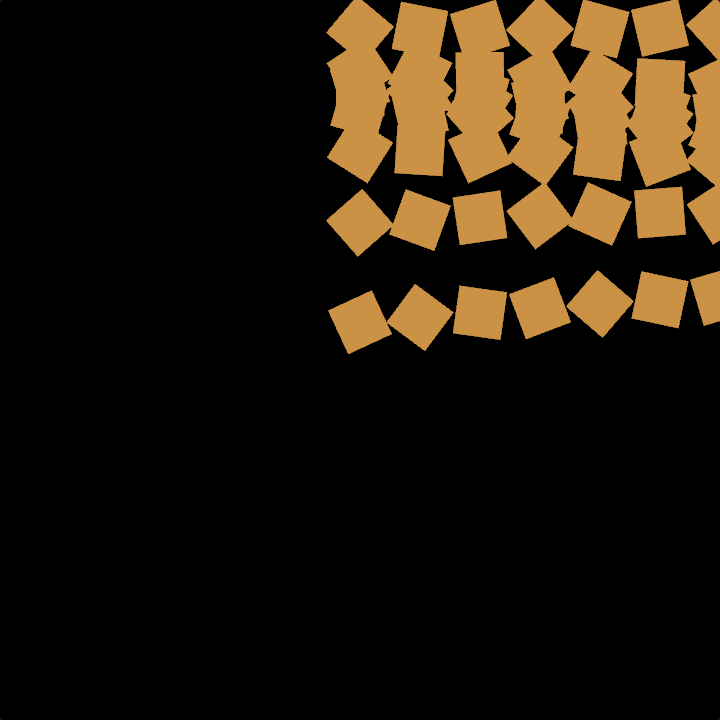
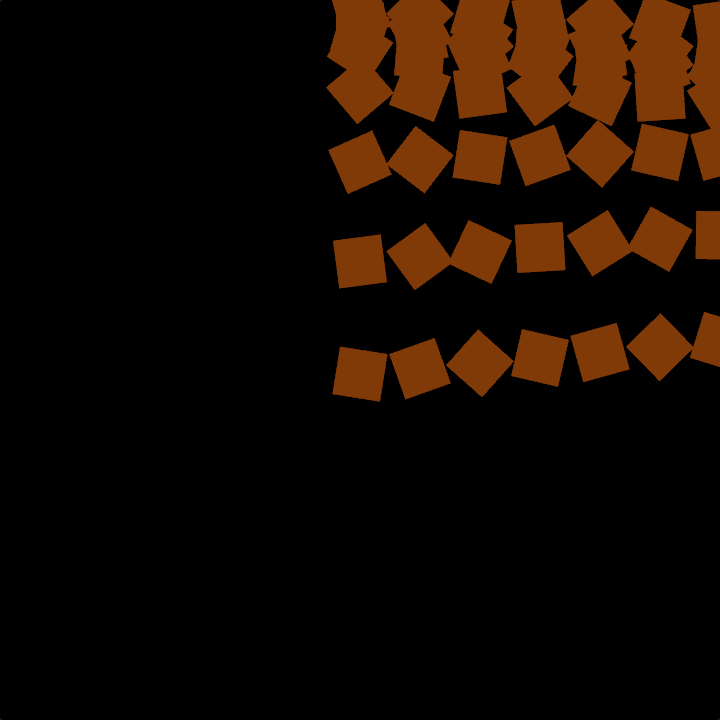
feat(pillars-scene nt56.20): OKLab color substrate for ScenePlan (#390)
Adopt OKLab as the internal color model behind the opaque color seam (B3
decision 1). nt56.5's opacity makes this non-breaking — the authored color's
representation migrates without touching any block API.

- ColorBinding gains an `oklab` variant (l/a/b Cartesian); kept exhaustive in
  every space switch (realizer colorBindingToNodes, inputs colorChannels,
  brightness scaleLuminance, capability-matrix coverage).
- hexColorBinding (the one authoring seam) now maps the opaque #rrggbb through
  sRGB → linear → OKLab, so authored colors enter perceptual space.
- scene-plan-realizer gains oklabToLinearSrgb (the render-side inverse: OKLab →
  linear sRGB, gamut-clamped; three encodes linear → display). Single source of
  truth for each direction; no block sees a matrix. [LAW:one-source-of-truth]
- Brightness on OKLab darkens along the ray toward black (scales l AND the a/b
  chroma axes together): a/b are absolute Cartesian chroma, so scaling l alone
  holds chroma fixed and over-saturates at lower lightness, pushing the color
  out of gamut and clipping its hue. Scaling all three preserves hue.

Why OKLab first: the perceptual color ops (Mix/Tint/HueShift/Gradient
interpolation, nt56.21/nt56.19) are only hue-correct in this space; building
them on rgb would be rework. [LAW:carrying-cost]

Verification:
- Full suite 2279 pass (capability-matrix now covers all four spaces);
  typecheck + lint clean.
- Visual gate: three-modifier-chain e2e green; captured frames show a faithful
[…]

Changed region(s): [[0.4583, 0.0, 1.0, 0.5806]]

diff --git a/src/render/scene-plan/__tests__/capability-matrix.test.ts b/src/render/scene-plan/__tests__/capability-matrix.test.ts
@@ -62,10 +62,11 @@ function buildCapabilityCoveragePlan(): ScenePlan {
   const rect = geometryRef('cap:rect');
   const point = geometryRef('cap:point');
 
-  // Materials: unlitColor over hsl / rgb / rgba, plus texturedUnlit.
+  // Materials: unlitColor over hsl / rgb / rgba / oklab, plus texturedUnlit.
   const matHsl = materialRef('cap:mat-hsl');
   const matRgb = materialRef('cap:mat-rgb');
   const matRgba = materialRef('cap:mat-rgba');
+  const matOklab = materialRef('cap:mat-oklab');
   const matTex = materialRef('cap:mat-tex');
 
   const tex = textureRef('cap:tex');
@@ -75,6 +76,7 @@ function buildCapabilityCoveragePlan(): ScenePlan {
   const objHsl = sceneObjectRef('cap:obj-hsl');
   const objRgb = sceneObjectRef('cap:obj-rgb');
   const objRgba = sceneObjectRef('cap:obj-rgba');
+  const objOklab = sceneObjectRef('cap:obj-oklab');
   const objTex = sceneObjectRef('cap:obj-tex');
 
   const index = intrinsic('index');
@@ -118,6 +120,10 @@ function buildCapabilityCoveragePlan(): ScenePlan {
           kind: 'unlitColor',
           color: { space: 'rgba', r: konst(1), g: konst(0), b: konst(0), a: konst(0.5) },
         },
+        [matOklab]: {
+          kind: 'unlitColor',
+          color: { space: 'oklab', l: add(konst(0.6), mul(rank, konst(0.1))), a: konst(0.1), b: konst(-0.05) },
+        },
         [matTex]: { kind: 'texturedUnlit', texture: tex },
       },
       textures: {
@@ -136,6 +142,7 @@ function buildCapabilityCoveragePlan(): ScenePlan {
       [objHsl]: { geometry: rect, material: matHsl, instancing: { count: 16, transform: transformA } },
       [objRgb]: { geometry: point, material: matRgb, instancing: { count: 4, transform: transformB } },
       [objRgba]: { geometry: rect, material: matRgba, instancing: { count: 1, transform: transformB } },
+      [objOklab]: { geometry: rect, material: matOklab, instancing: { count: 4, transform: transformB } },
       [objTex]: { geometry: rect, material: matTex, instancing: { count: 1, transform: transformB } },
     },
     render: {
@@ -145,6 +152,7 @@ function buildCapabilityCoveragePlan(): ScenePlan {
         { target: 'previewCanvas', object: objHsl },
         { target: 'previewCanvas', object: objRgb },
         { target: 'previewCanvas', object: objRgba },
+        { target: 'previewCanvas', object: objOklab },
         { target: 'previewCanvas', object: objTex },
       ],
       postChain: post,
@@ -200,6 +208,11 @@ function collectExprVocabulary(plan: ScenePlan): {
       visit(c.s);
       visit(c.l);
     }
+    if (c.space === 'oklab') {
+      visit(c.l);
+      visit(c.a);
+      visit(c.b);
+    }
   }
 
   return { kinds, unary, binary };
@@ -218,12 +231,12 @@ describe('ScenePlan capability matrix — representative coverage', () => {
     expect(kinds).toEqual(['point', 'rectangle']);
   });
 
-  it('covers all three color spaces', () => {
+  it('covers all four color spaces', () => {
     const spaces = Object.values(plan.resources.materials)
       .filter((m) => m.kind === 'unlitColor')
       .map((m) => (m.kind === 'unlitColor' ? m.color.space : null))
       .sort();
-    expect(spaces).toEqual(['hsl', 'rgb', 'rgba']);
+    expect(spaces).toEqual(['hsl', 'oklab', 'rgb', 'rgba']);
   });
 
   it('covers both material variants', () => {

diff --git a/src/pillars/scene/color.ts b/src/pillars/scene/color.ts
@@ -17,21 +17,38 @@ import { konst, type ColorBinding } from '../../render/scene-plan';
 
 const CHANNEL_MAX = 255;
 
+/** Decode one sRGB display channel (0..1) to linear light. */
+function srgbToLinear(c: number): number {
+  return c <= 0.04045 ? c / 12.92 : ((c + 0.055) / 1.055) ** 2.4;
+}
+
 /**
- * Parse an opaque `#rrggbb` color into a uniform (per-instance-constant) rgb
- * `ColorBinding`. Each channel is a baked `const` PlanExpr in 0..1 — a solid
+ * Parse an opaque `#rrggbb` color into a uniform (per-instance-constant) OKLab
+ * `ColorBinding`. The authored color enters the perceptual space here — the one
+ * seam — so every downstream color op composes in OKLab and the renderer maps
+ * it back to linear sRGB for display. Each channel is a baked `const`: a solid
  * color is the zero-variation case of the same binding an animated color uses.
  *
  * [LAW:dataflow-not-control-flow] Solidness is a property of the *values* (all
  *   `const`), not a separate kind of binding.
+ * [LAW:one-source-of-truth] The sRGB→OKLab transform lives only here on the
+ *   authoring side and `oklabToLinearSrgb` only on the render side; no block
+ *   sees either matrix.
  */
 export function hexColorBinding(hex: string): ColorBinding {
   const channel = (start: number): number =>
-    parseInt(hex.slice(start, start + 2), 16) / CHANNEL_MAX;
+    srgbToLinear(parseInt(hex.slice(start, start + 2), 16) / CHANNEL_MAX);
+  const lin = { r: channel(1), g: channel(3), b: channel(5) };
+
+  // linear sRGB → LMS (Ottosson) → cube-root → OKLab.
+  const l_ = Math.cbrt(0.4122214708 * lin.r + 0.5363325363 * lin.g + 0.0514459929 * lin.b);
+  const m_ = Math.cbrt(0.2119034982 * lin.r + 0.6806995451 * lin.g + 0.1073969566 * lin.b);
+  const s_ = Math.cbrt(0.0883024619 * lin.r + 0.2817188376 * lin.g + 0.6299787005 * lin.b);
+
   return {
-    space: 'rgb',
-    r: konst(channel(1)),
-    g: konst(channel(3)),
-    b: konst(channel(5)),
+    space: 'oklab',
+    l: konst(0.2104542553 * l_ + 0.793617785 * m_ - 0.0040720468 * s_),
+    a: konst(1.9779984951 * l_ - 2.428592205 * m_ + 0.4505937099 * s_),
+    b: konst(0.0259040371 * l_ + 0.7827717662 * m_ - 0.808675766 * s_),
   };
 }

diff --git a/src/render/webgpu/three/scene-plan-realizer.ts b/src/render/webgpu/three/scene-plan-realizer.ts
@@ -129,6 +129,33 @@ function hslToRgb(h: TSLNode, s: TSLNode, l: TSLNode): Node<'vec3'> {
   return vec3(channel(0), channel(8), channel(4));
 }
 
+/**
+ * OKLab (L,a,b) → linear sRGB as a TSL graph (Björn Ottosson's matrices, cube
+ * via `mul` since the cube-root only runs authoring-side). Channels are
+ * gamut-clamped to [0,1]; three encodes linear → display sRGB on output, so this
+ * is the render-side inverse of `hexColorBinding`'s sRGB → OKLab.
+ *
+ * [LAW:one-source-of-truth] The only place the OKLab→display matrix lives on the
+ *   render side; no block or material references these coefficients.
+ */
+function oklabToLinearSrgb(L: TSLNode, A: TSLNode, B: TSLNode): Node<'vec3'> {
+  const lp = add(L, add(mul(A, float(0.3963377774)), mul(B, float(0.2158037573))));
+  const mp = sub(L, add(mul(A, float(0.1055613458)), mul(B, float(0.0638541728))));
+  const sp = sub(L, add(mul(A, float(0.0894841775)), mul(B, float(1.291485548))));
+  const cube = (x: TSLNode): TSLNode => mul(mul(x, x), x);
+  const l = cube(lp);
+  const m = cube(mp);
+  const s = cube(sp);
+  const lin = (cl: number, cm: number, cs: number): TSLNode =>
+    add(add(mul(l, float(cl)), mul(m, float(cm))), mul(s, float(cs)));
+  const clamp01 = (c: TSLNode): TSLNode => max(float(0), min(float(1), c));
+  return vec3(
+    clamp01(lin(4.0767416621, -3.3077115913, 0.2309699292)),
+    clamp01(lin(-1.2684380046, 2.6097574011, -0.3413193965)),
+    clamp01(lin(-0.0041960863, -0.7034186147, 1.707614701)),
+  );
+}
+
 interface ColorNodes {
   readonly colorNode: Node<'vec3'>;
   readonly opacityNode: TSLNode | null;
@@ -145,6 +172,8 @@ function colorBindingToNodes(binding: ColorBinding, ctx: PlanExprContext): Color
       return { colorNode: vec3(e(binding.r), e(binding.g), e(binding.b)), opacityNode: e(binding.a) };
     case 'hsl':
       return { colorNode: hslToRgb(e(binding.h), e(binding.s), e(binding.l)), opacityNode: null };
+    case 'oklab':
+      return { colorNode: oklabToLinearSrgb(e(binding.l), e(binding.a), e(binding.b)), opacityNode: null };
     default:
       return assertNever(binding);
   }

diff --git a/src/render/scene-plan/plan.ts b/src/render/scene-plan/plan.ts
@@ -57,6 +57,12 @@ export type GeometryDef =
  * A color, expressed in a named color space. Each channel is a PlanExpr, so a
  * channel may be uniform (`const`) or vary per instance / per frame by
  * referencing an intrinsic or input.
+ *
+ * `oklab` is the perceptual interpolation space (Björn Ottosson's OKLab): `l` is
+ * perceived lightness, `a`/`b` the green–red and blue–yellow Cartesian axes.
+ * Authored colors enter this space at the seam (`hexColorBinding`) and the
+ * renderer converts it back to linear sRGB for display. Mixing/animating color
+ * in `oklab` is hue-correct without the muddy midtones of rgb interpolation.
  */
 export type ColorBinding =
   | { readonly space: 'hsl'; readonly h: PlanExpr; readonly s: PlanExpr; readonly l: PlanExpr }
@@ -67,7 +73,8 @@ export type ColorBinding =
       readonly g: PlanExpr;
       readonly b: PlanExpr;
       readonly a: PlanExpr;
-    };
+    }
+  | { readonly space: 'oklab'; readonly l: PlanExpr; readonly a: PlanExpr; readonly b: PlanExpr };
 
 /**
  * A material resource: how an object's surface is shaded.

diff --git a/src/pillars/scene/__tests__/compile.test.ts b/src/pillars/scene/__tests__/compile.test.ts
@@ -75,12 +75,13 @@ describe('compileScenePlan — Grid of Squares proof target', () => {
     expect(geo.height).toBe(0.08);
   });
 
-  it('references one unlit rgb color material from the SolidColor block', () => {
+  it('references one unlit oklab color material from the SolidColor block', () => {
     const material = plan.resources.materials[object.material];
     expect(material.kind).toBe('unlitColor');
     if (material.kind !== 'unlitColor') return;
-    // The opaque SolidColor block mints an rgb ColorBinding behind the seam.
-    expect(material.color.space).toBe('rgb');
+    // The opaque SolidColor block mints a perceptual OKLab ColorBinding behind
+    // the seam (the opaque authored color enters OKLab at hexColorBinding).
+    expect(material.color.space).toBe('oklab');
   });
 
   it('emits one draw item targeting the preview canvas', () => {

diff --git a/src/pillars/scene/blocks/brightness.ts b/src/pillars/scene/blocks/brightness.ts
@@ -28,6 +28,13 @@ const config = {
 function scaleLuminance(color: ColorBinding, factor: number): ColorBinding {
   const k = konst(factor);
   switch (color.space) {
+    case 'oklab':
+      // Darken along the OKLab ray toward black: scale lightness AND the
+      // Cartesian chroma axes together. a/b are absolute chroma, so scaling l
+      // alone holds chroma fixed and over-saturates at lower lightness —
+      // pushing the color out of gamut and clipping its hue. Scaling all three
+      // preserves the hue angle atan2(b,a) and reduces chroma in step.
+      return { space: 'oklab', l: mul(color.l, k), a: mul(color.a, k), b: mul(color.b, k) };
     case 'hsl':
       return { ...color, l: mul(color.l, k) };
     case 'rgb':

diff --git a/src/pillars/scene/inputs.ts b/src/pillars/scene/inputs.ts
@@ -46,6 +46,8 @@ export function colorChannels(color: ColorBinding): readonly PlanExpr[] {
       return [color.r, color.g, color.b];
     case 'rgba':
       return [color.r, color.g, color.b, color.a];
+    case 'oklab':
+      return [color.l, color.a, color.b];
     default:
       // [LAW:types-are-the-program] A new color space is a compile error here
       //   until its channels are enumerated — never an undefined return.
